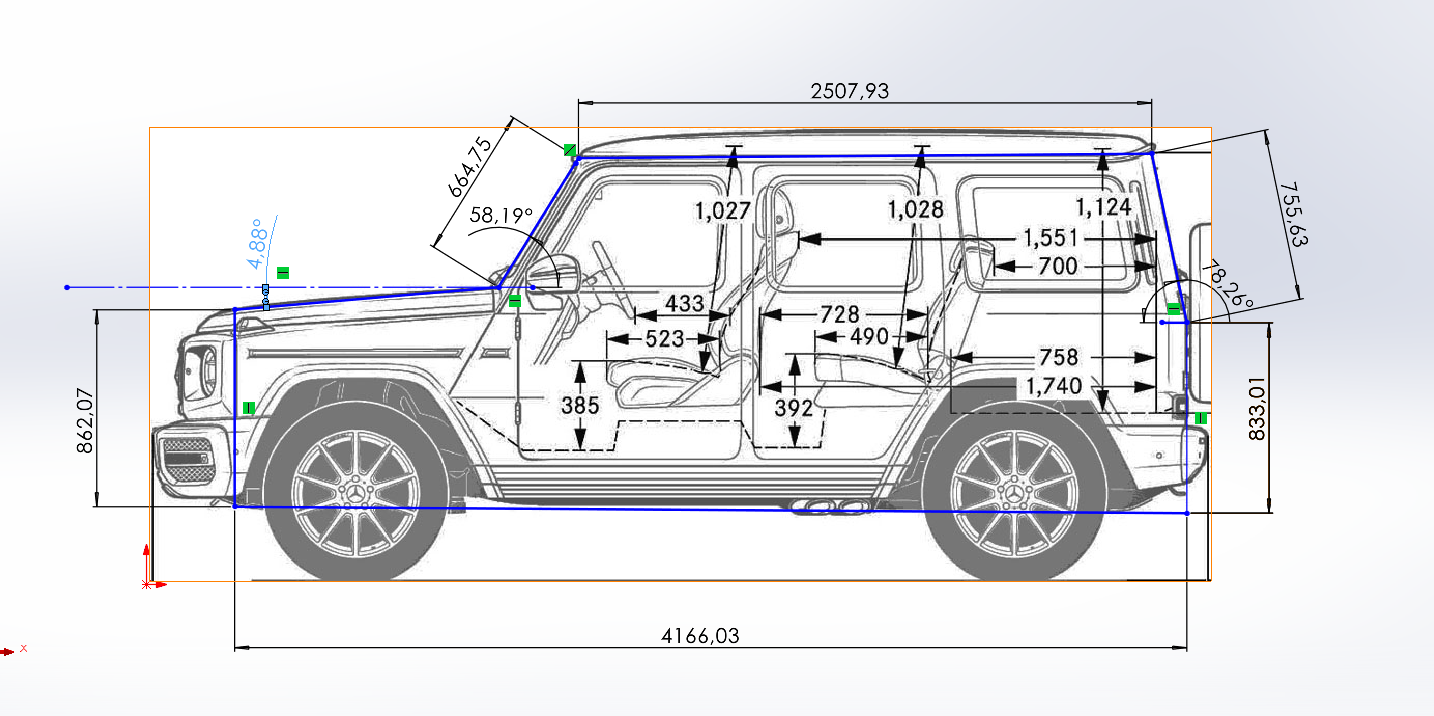
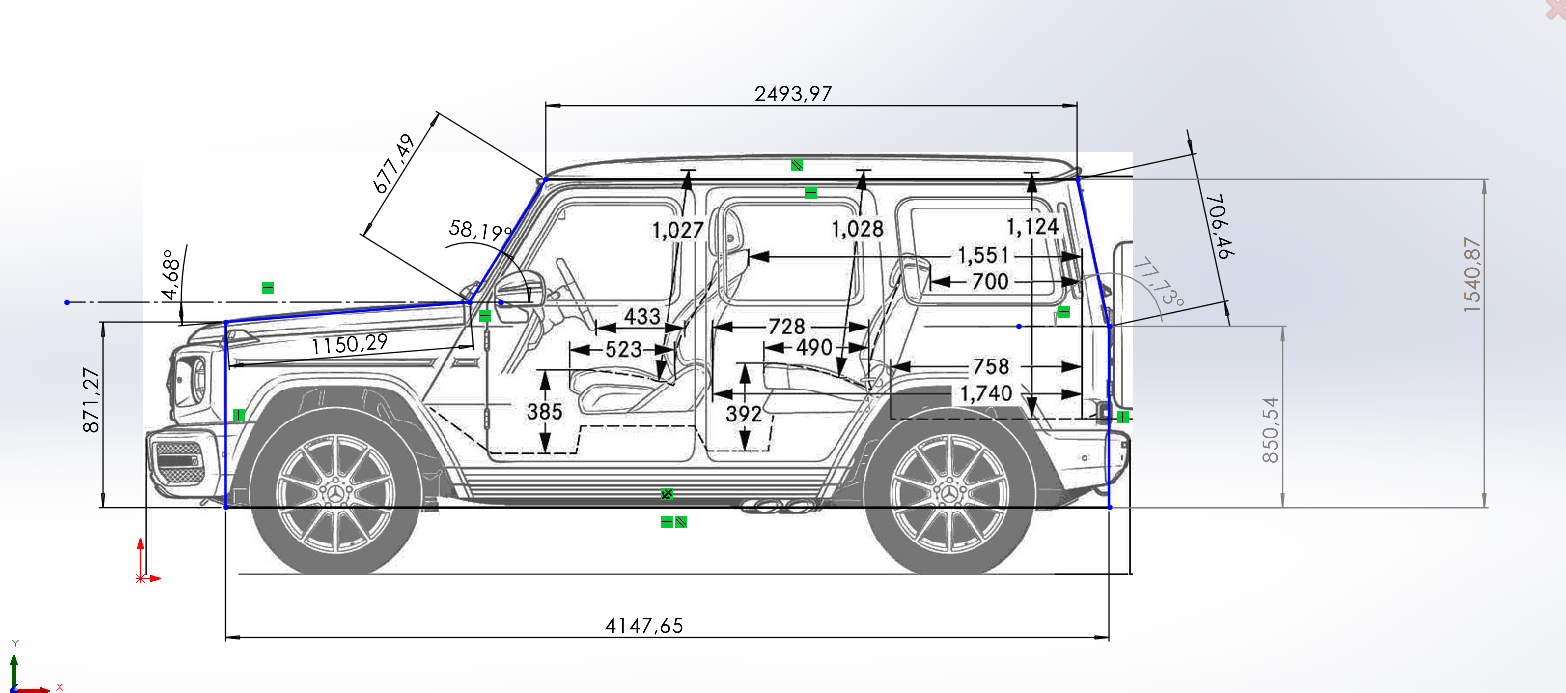
parameter fix
after parameterCheck compiled. we have figured out an error about paremeters or the drawing algorithm. It turns out it was parameters. With the new parameters it gave us the correct drawing as we see in new original.png

diff --git a/python turtle/parameterCheck.py b/python turtle/parameterCheck.py
@@ -2,19 +2,22 @@ import turtle
 from PIL import Image
 from openpyxl.drawing.image import Image as OpenpyxlImage
 
-backAngle = 78.26
+backAngle = 77.73
 frontAngle = 58.19
-windShield = 664.75
-rearWindow = 755.63
-roof = 2507.93
-totalWidth = 4166.03
-totalHeight = 1535.63
-base = 4166.03
-roof = 2507.93
-backHeight = 833.01
-hood = 1158.16
-hoodAngle = 4.88
-frontHeight = 862.07
+windShield = 677.49
+rearWindow = 706.46
+totalWidth = 4147.65
+totalHeight = 1540.87
+base = 4147.65
+roof = 2493.97
+backHeight = 850.54
+hood = 1150.29
+hoodAngle = 4.68
+frontHeight = 871.27
+
+#backtotalHeight is 1540.862322
+#fronttotalHeight is 1540.854347
+#totalHeight is 1540.87
 
 s = turtle.getscreen()
 t = turtle.Turtle()
